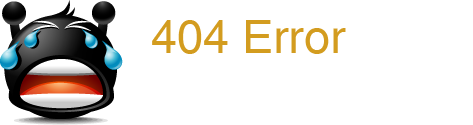
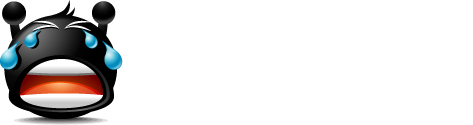
xiaoxiu

Changed region(s): [[0.296, 0.144, 0.74, 0.432]]

diff --git a/src/main/resources/templates/accountSetup.html b/src/main/resources/templates/accountSetup.html
@@ -9,6 +9,7 @@
 		<link href='css/animate.min.css' media='all' rel='stylesheet' type='text/css' />
 		<link href="css/useful2.css" rel="stylesheet" type="text/css" />
 		<script type="text/javascript" src="sripts/jquery.min.js"></script>
+		<script src='sripts/bootstrap.min.js' type='text/javascript'></script>
 		<script src="sripts/toastr.min.js" type="text/javascript"></script>
 		<script src="sripts/jquerySession.js"></script>
 		<script type="text/javascript" src="js/implement.js"></script>

diff --git a/src/main/resources/templates/officeClassesSchedule.html b/src/main/resources/templates/officeClassesSchedule.html
@@ -49,7 +49,7 @@
 
 		<div class="formbody">
 			<div class="scheduleClassesMainArea">
-			<div class="formtext myformtext" style="margin-bottom: 14px;">
+			<div class="formtext myformtext myformtextTipArea" style="margin-bottom: 14px;">
 				<b>提示：1.勾选多条任务书，双击教师栏，可实现多任务书指定相同授课教师</b><br></br>
 				<b>2.排课部门默认为开课部门，双击可手动更改排课部门</b><br></br>
 			</div>

diff --git a/src/main/resources/templates/error.html b/src/main/resources/templates/error.html
@@ -25,8 +25,8 @@
     
     <div class="error" style="margin: 0 auto;margin-top: 10%;">
     
-    <h2>非常遗憾，您访问的页面不存在！</h2>
-    <p>看到这个提示，就自认倒霉吧!</p>
+    <h2>数据尚未初始化！</h2>
+    <p>此功能暂不开放</p>
     <div class="reindex"><a href="main.html" target="_parent">返回首页</a></div>
     
     </div>

diff --git a/src/main/resources/templates/culturePlan.html b/src/main/resources/templates/culturePlan.html
@@ -49,7 +49,7 @@
 
 	<div class="formbody">
 		<div class="culturePlanArea">
-			<div class="formtext myformtext">
+			<div class="formtext myformtext myformtextTipArea">
 				<b>提示：课程名字为红色代表未生成班级开课计划 , 课程名字为绿色代表已生成班级开课计划</b>
 			</div>
 			<div class="tools">

diff --git a/src/main/resources/templates/culturePlanapproval.html b/src/main/resources/templates/culturePlanapproval.html
@@ -41,7 +41,7 @@
 		</div>
 
 		<div class="formbody">
-			<div class="formtext myformtext">
+			<div class="formtext myformtext myformtextTipArea">
 						<b>提示：课程名字为红色代表未生成班级开课计划 , 课程名字为绿色代表已生成班级开课计划</b>
 			</div>
 			

diff --git a/src/main/resources/static/css/useful2.css b/src/main/resources/static/css/useful2.css
@@ -632,7 +632,7 @@ float: left;
 	margin-top: -45px;
 }
 
-.myformtext b:not(:first-child){
+.myformtextTipArea b:not(:first-child){
 	margin-left: 36px;
 }
 

diff --git a/src/main/resources/static/css/style.css b/src/main/resources/static/css/style.css
@@ -1211,7 +1211,7 @@ h2 {
 }
 
 .reindex {
-	padding-left: 154px;
+	padding-left: 93px;
 }
 
 .reindex a {

diff --git a/src/main/java/com/beifen/edu/administration/controller/AdministrationController.java b/src/main/java/com/beifen/edu/administration/controller/AdministrationController.java
@@ -1636,7 +1636,7 @@ public class AdministrationController {
 		Edu300 edu300 = (Edu300) JSONObject.toBean(jsonObject, Edu300.class);
 		List<Edu300> currentAllAdministrationClasses = administrationPageService.queryAllAdministrationClasses();
 
-		// 判断层次是否已存在
+		// 判断行政班名称和编码是否已存在
 		boolean namehave = false;
 		boolean codehave = false;
 		for (int i = 0; i < currentAllAdministrationClasses.size(); i++) {

diff --git a/src/main/java/com/beifen/edu/administration/domian/Edu300.java b/src/main/java/com/beifen/edu/administration/domian/Edu300.java
@@ -30,10 +30,10 @@ public class Edu300 {
 	private String sfsckkjh;  //是否生成开课计划--
 	private  String yxbz;//有效标志
 	
+	@Id                                                             
 	@GeneratedValue(strategy = GenerationType.SEQUENCE, generator = "BF_SEQUENCE")
 	@SequenceGenerator(name = "BF_SEQUENCE", sequenceName = "BF_SEQUENCE")
 	@Column(name = "Edu300_ID")
-	@Id
 	public Long getEdu300_ID() {
 		return Edu300_ID;
 	}

diff --git a/src/main/java/com/beifen/edu/administration/domian/Edu301.java b/src/main/java/com/beifen/edu/administration/domian/Edu301.java
@@ -35,11 +35,11 @@ public class Edu301 {
 	private Long Edu201_ID; //教学任务书ID
 	private String yxbz;//有效标志
 	
-	
+	@Id
 	@GeneratedValue(strategy = GenerationType.SEQUENCE, generator = "BF_SEQUENCE")
 	@SequenceGenerator(name = "BF_SEQUENCE", sequenceName = "BF_SEQUENCE")
 	@Column(name = "Edu301_ID")
-	@Id
+	
 	public Long getEdu301_ID() {
 		return Edu301_ID;
 	}

diff --git a/src/main/java/com/beifen/edu/administration/domian/Edu201.java b/src/main/java/com/beifen/edu/administration/domian/Edu201.java
@@ -34,10 +34,10 @@ public class Edu201 {
 	private String fkyj;  //反馈意见
 	private String sfypk;  //是否已排课
 	
+	@Id
 	@GeneratedValue(strategy = GenerationType.SEQUENCE, generator = "BF_SEQUENCE")
 	@SequenceGenerator(name = "BF_SEQUENCE", sequenceName = "BF_SEQUENCE")
 	@Column(name = "Edu201_ID")
-	@Id
 	public Long getEdu201_ID() {
 		return Edu201_ID;
 	}

diff --git a/src/main/java/com/beifen/edu/administration/domian/Edu200.java b/src/main/java/com/beifen/edu/administration/domian/Edu200.java
@@ -56,10 +56,11 @@ public class Edu200 {
 	private Long shsj;  //审核时间
 	private String zt;  //状态
 	
+	
+	@Id
 	@GeneratedValue(strategy = GenerationType.SEQUENCE, generator = "BF_SEQUENCE")
 	@SequenceGenerator(name = "BF_SEQUENCE", sequenceName = "BF_SEQUENCE")
 	@Column(name = "BF200_ID")
-	@Id
 	public Long getBF200_ID() {
 		return BF200_ID;
 	}
